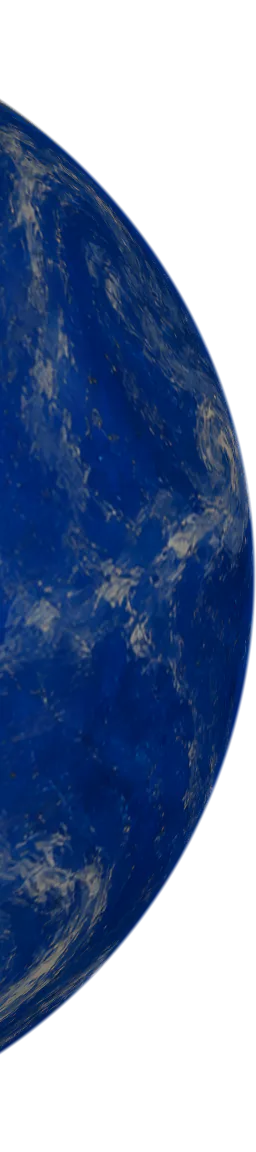
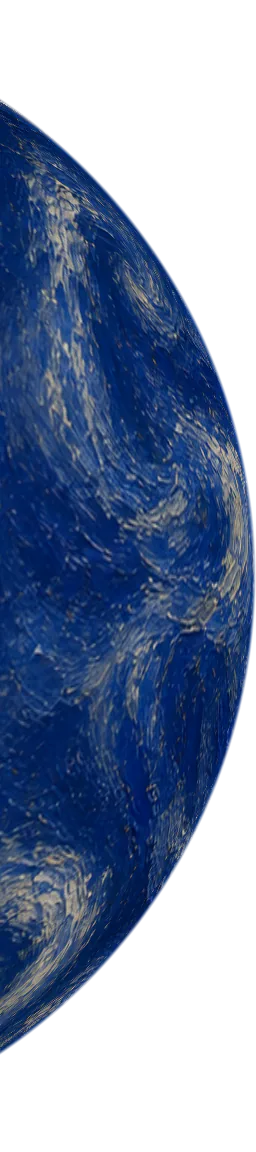
art: refine impressionist earth palette

Changed region(s): [[0.0, 0.0938, 1.0, 0.9062]]

diff --git a/design-source/archive-v2/projects/earth-impressionist/prompts.md b/design-source/archive-v2/projects/earth-impressionist/prompts.md
@@ -13,6 +13,10 @@ Create a flat equirectangular planetary surface texture for a continuously rotat
 
 Translate the surface into restrained impressionist oil painting: cobalt, ultramarine and ink-blue oceans; muted ochre, grey-green and ivory land; visible dry-brush marks; loose white-grey cloud strokes; simplified coastlines; low microdetail; museum-quality matte pigment on fine canvas. The result must remain clearly Earth but must not resemble a satellite photograph or 3D game material.
 
+### Candidate A refinement
+
+Change only the surface rendering of Candidate A so the impressionist medium survives the narrow globe crop: deepen cobalt, ultramarine and Prussian-blue oceans; cool and desaturate the land toward grey ochre; enlarge the visible dry-brush marks; use restrained ivory cloud strokes and luminous mixed pigment. Preserve the same geography and flat 2:1 map. This refined candidate is the production source.
+
 ## Candidate B — Celestial atlas
 
 Translate the same surface into a deep-blue celestial-atlas painting: ink-blue oceans, desaturated land, ivory cloud bands, subtle copperplate and hand-inked texture, restrained contrast, aged scientific illustration sensibility. Keep it painterly and non-photographic; do not add map labels, coordinates, borders, or symbols.
